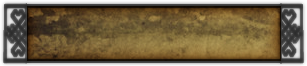
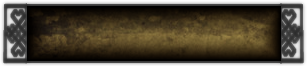
Button Graphics Updated

diff --git a/src/Menu/State_Menu.cpp b/src/Menu/State_Menu.cpp
@@ -101,7 +101,7 @@ void State_Menu::Update()		//	To do: handling input/UseFunction();
 			{
 				CurrentMenu->MarkedButton = CurrentMenu->buttons[i];
 				CurrentMenu->buttons[i]->highlighted = true;
-				graphicEngine->RequestUI_Element_Graphic(CurrentMenu->buttons[i], 2);
+				graphicEngine->RequestUI_Element_Graphic(CurrentMenu->buttons[i], 1);
 			}
 		}
 		else
@@ -115,7 +115,7 @@ void State_Menu::Update()		//	To do: handling input/UseFunction();
 	{
 
 			CurrentMenu->MarkedButton->clicked = true;
-			graphicEngine->RequestUI_Element_Graphic(CurrentMenu->MarkedButton, 1);
+			graphicEngine->RequestUI_Element_Graphic(CurrentMenu->MarkedButton, 2);
 	}
 	else if (!mouse[LMB] && CurrentMenu->MarkedButton != NULL && CurrentMenu->MarkedButton->clicked)
 	{
